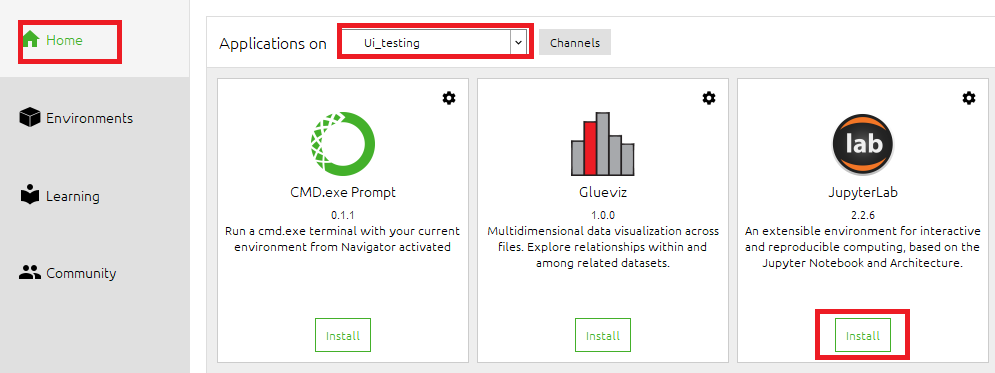
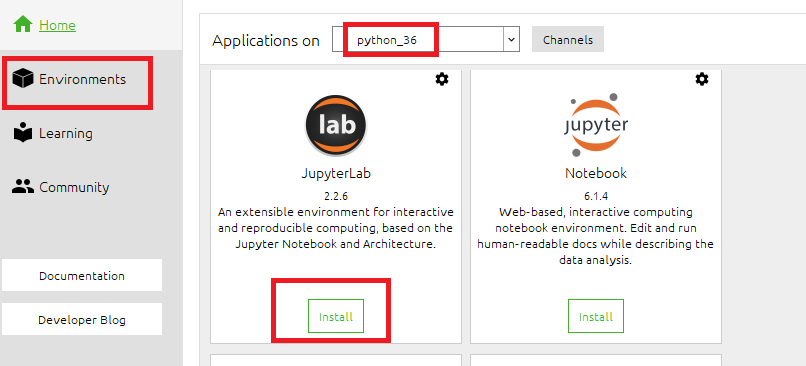
[Update] readme updated

diff --git a/.ipynb_checkpoints/README-checkpoint.md b/.ipynb_checkpoints/README-checkpoint.md
@@ -4,47 +4,63 @@ This is a documentation to help you to setup UI test environment with Fusionex T
 ## Prerequisites
 * Install [Anaconda](https://docs.anaconda.com/anaconda/install/windows/)
 * After installation of Anaconda in previous step, launch `Anaconda Navigator` from Windows menu
-* Create virual environment (with Python 3.6)
-    * TODO: 
+* Create virual environment `python_36` (with Python 3.6)
+    * TODO:
+
+    * More information:  [documentation](https://docs.anaconda.com/anaconda/navigator/tutorials/use-multiple-python-versions/#:~:text=In%20Navigator%2C%20click%20the%20Environments,version%20you%20want%20to%20use)
 * Install JupyterLab
-    * Click side menu `Home`
+    * In Navigator, click side menu `Home`
     * Select the new environment from previous step `python_36` from dropdown `Applications on`
-
-
-    
-    ![jupyterlab.PNG](./images/jupyterlab.PNG)
     * Click `Install` from `JupyterLab`
+    ![jupyterlab.PNG](./images/jupyterlab.PNG)
+
+* Install python libraries  
+    * In Navigator, click side menu `Environments`
+    * Select environment `python_36`
+    * Click the play button, select `Open Terminal`
+
+
+* Run these commands to install the libraries
+  * -pip install selenium beautifulsoup4
 
 
 
-## Step 2
-Press windows button, then search and launch anaconda navigator, click on the environment tab on the left, and create an environment with python ver 3.6
-For more information refer to this [documentation](https://docs.anaconda.com/anaconda/navigator/tutorials/use-multiple-python-versions/#:~:text=In%20Navigator%2C%20click%20the%20Environments,version%20you%20want%20to%20use)
+* Install chrome driver
+  * Check your google chrome version
+  * Do this by launching google chrome -> `Press the 3 dots button` on the top right -> `help` -> `about google chrome` 
+  * Install the driver based on your chrome version using this [link](https://chromedriver.chromium.org/downloads)
+  
 
-## Step 3 
+  
 
-Click on the home tab on the left, and on the Applications on tab, ensure your new environment is selected. 
 
-Install jupyterlab.
 
-![jupyterlab.PNG](./images/jupyterlab.PNG)
 
-## Step 4
 
-Download chromedriver based on the link below: 
-https://chromedriver.chromium.org/downloads
 
-Note: Check your google chrome version by clicking on the 3 dots on the top right -> help -> about google chrome and download the correct driver. 
 
-## Step 5 
 
-Click on environments tab, click on the play sign on your environment, and click on open terminal.  
-![anaconda_prompt.PNG](./images/anaconda_prompt.png)
 
-Run these commands 
 
- * pip install selenium 
- * conda install -c anaconda beautifulsoup4
+
+
+
+
+
+
+
+
+
+
+
+
+
+
+
+
+
+
+
 
 
 

diff --git a/README.md b/README.md
@@ -12,14 +12,26 @@ This is a documentation to help you to setup UI test environment with Fusionex T
     * In Navigator, click side menu `Home`
     * Select the new environment from previous step `python_36` from dropdown `Applications on`
     * Click `Install` from `JupyterLab`
+    ![jupyterlab.PNG](./images/jupyterlab.PNG)
 
 * Install python libraries  
     * In Navigator, click side menu `Environments`
     * Select environment `python_36`
-    * Click the arrow button, select ``
+    * Click the play button, select `Open Terminal`
+
+
+* Run these commands to install the libraries
+  * -pip install selenium beautifulsoup4
+
 
 
 * Install chrome driver
+  * Check your google chrome version
+  * Do this by launching google chrome -> `Press the 3 dots button` on the top right -> `help` -> `about google chrome` 
+  * Install the driver based on your chrome version using this [link](https://chromedriver.chromium.org/downloads)
+  
+
+  
 
 
 
@@ -49,37 +61,6 @@ This is a documentation to help you to setup UI test environment with Fusionex T
 
 
 
-
-
-
-## Step 2
-Press windows button, then search and launch anaconda navigator, click on the environment tab on the left, and create an environment with python ver 3.6
-For more information refer to this [documentation](https://docs.anaconda.com/anaconda/navigator/tutorials/use-multiple-python-versions/#:~:text=In%20Navigator%2C%20click%20the%20Environments,version%20you%20want%20to%20use)
-
-## Step 3 
-
-Click on the home tab on the left, and on the Applications on tab, ensure your new environment is selected. 
-
-Install jupyterlab.
-
-![jupyterlab.PNG](./images/jupyterlab.PNG)
-
-## Step 4
-
-Download chromedriver based on the link below: 
-https://chromedriver.chromium.org/downloads
-
-Note: Check your google chrome version by clicking on the 3 dots on the top right -> help -> about google chrome and download the correct driver. 
-
-## Step 5 
-
-Click on environments tab, click on the play sign on your environment, and click on open terminal.  
-![anaconda_prompt.PNG](./images/anaconda_prompt.png)
-
-Run these commands 
-
- * pip install selenium 
- * conda install -c anaconda beautifulsoup4
 
 
 
